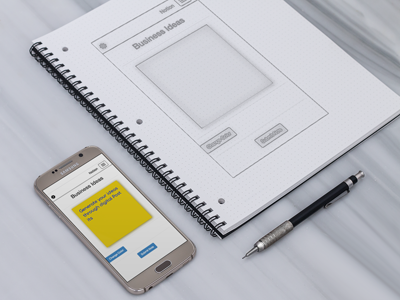
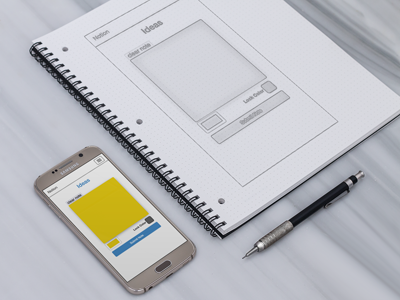
lock comment view modal

diff --git a/client/styles/components/_noteDetails.scss b/client/styles/components/_noteDetails.scss
@@ -2,8 +2,12 @@ $green: #86BB71;
 $blue: #94C2ED;
 $bright-green: #0AD5C1;
 $bgd-color: linear-gradient(-45deg, #183850 0, #183850 25%, #183850  50%, #192C46  75%, #192C46  100%);
-//  #183850 0, #183850 25%, #192C46 50%, #22254C 75%, #22254C 100%
 .board-page-container {
+  position: relative;
+}
+
+.lock-overflow {
+  overflow: hidden;
   position: relative;
 }
 
@@ -12,7 +16,7 @@ $bgd-color: linear-gradient(-45deg, #183850 0, #183850 25%, #183850  50%, #192C4
   top: 0.1%;
   right: 2%;
   padding: 0;
-  background-color: #183850;
+  background-color: #363636;
   border-radius: 50%;
   color: white;
   border: 0;
@@ -30,7 +34,7 @@ $bgd-color: linear-gradient(-45deg, #183850 0, #183850 25%, #183850  50%, #192C4
   padding: 2em;
   margin: 0.5em auto;
   border-radius: 10px;
-  background:$bgd-color;
+  background:$black;
   border: 0;
   z-index: 9999;
   box-shadow: 0 0 1px rgba(76,86,103,.25), 0 2px 18px rgba(31,37,50,.32);
@@ -116,6 +120,7 @@ $bgd-color: linear-gradient(-45deg, #183850 0, #183850 25%, #183850  50%, #192C4
   margin-bottom: 0;
   width: 100%;
   position: relative;
+  color: black;
 
       &:after {
         bottom: 100%;
@@ -131,24 +136,77 @@ $bgd-color: linear-gradient(-45deg, #183850 0, #183850 25%, #183850  50%, #192C4
 }
 
 .note-details-comment:nth-child(odd){
-      background-color: rgba(25, 147, 147, 0.1);
       text-align: right;
       &:after {
-        border-bottom-color: rgba(25, 147, 147, 0.1);
         left: 93%;
       }
-      color: #0AD5C1;
 }
 
 .note-details-comment:nth-child(even) {
-    background-color: rgba(25, 147, 147, 0.1);
     text-align: left;
     &:after {
-      border-bottom-color: rgba(25, 147, 147, 0.1);
       left: 7%;
     }
-    color: #0EC879;
 }
+
+.note-details-comment:nth-child(1n){
+  background-color: #ffeb3b;
+  &:after {
+    border-bottom-color: #ffeb3b;
+  }
+}
+.note-details-comment:nth-child(2n){
+  background-color: #ffc107;
+  &:after {
+    border-bottom-color: #ffc107;
+  }
+}
+.note-details-comment:nth-child(3n){
+  background-color: #cddc39;
+  &:after {
+    border-bottom-color: #cddc39;
+  }
+}
+.note-details-comment:nth-child(4n){
+  background-color: #009688;
+  &:after {
+    border-bottom-color: #009688;
+  }
+}
+.note-details-comment:nth-child(5n){
+  background-color: #03a9f4;
+  &:after {
+    border-bottom-color: #03a9f4;
+  }
+}
+.note-details-comment:nth-child(7n){
+  background-color: #FF646E;
+  &:after {
+    border-bottom-color: #FF646E;
+  }
+}
+
+
+
+
+// [
+//   "#ffeb3b",
+//   "#ffc107",
+//   "#FFA83A",
+//   "#ff9800",
+//   "#FF646E",
+//   "#cddc39",
+//   "#8bc34a",
+//   "#4caf50",
+//   "#28B270",
+//   "#009688",
+//   "#00bcd4",
+//   "#03a9f4",
+//   "#2196f3",
+//   "#5064D2",
+//   "#B150A0"
+// ]
+
 
 
 

diff --git a/client/containers/BoardContainer.js b/client/containers/BoardContainer.js
@@ -102,14 +102,19 @@ class BoardContainer extends Component {
 
   showNoteComments(color, content, noteId) {
     this.props.selectedNoteDetail({color, content, noteId});
+    document.body.classList.toggle('lock-overflow', true);
+    document.documentElement.classList.toggle('lock-overflow', true);
   }
 
   componentWillUnmount() {
     this.props.selectedNoteDetail();
+
   }
 
   hideNoteComments() {
     this.props.selectedNoteDetail();
+    document.body.classList.toggle('lock-overflow', false);
+    document.documentElement.classList.toggle('lock-overflow', false);
   }
 
 
@@ -121,9 +126,8 @@ class BoardContainer extends Component {
 
     const value = `${window.location.host}${window.location.host === 'localhost' ? window.location.port : ''}/note?board=${this.props.board.hash}`;
 
-
     return (
-      <div className="col-xs-12 board-page-container" key={ this.props.board.id }>
+      <div className="col-xs-12 board-page-container " key={ this.props.board.id }>
         {this.props.selectedNoteDetails ?
           <NoteDetailsContainer
             note={this.props.selectedNoteDetails}

diff --git a/client/containers/HomepageContainer.js b/client/containers/HomepageContainer.js
@@ -60,10 +60,10 @@ export default class HomePageContainer extends Component {
         <div className="desc-container">
             <div className="left-desc">
               <div className="left-desc-title">
-                  Seamless Design.
+                  Real-time collaboration.
               </div>
               <div className="left-desc-content">
-                 Unite with your team and brainstorm ideas on your own dynamic board. Some more description we need to think about. Lets get back to this
+                 Unite with your team and brainstorm ideas in your own dynamic board. Create context around your projects with Boards—flexible spaces to store, share, and talk about your own ideas.
               </div>
 
             </div>

diff --git a/client/index.html b/client/index.html
@@ -7,7 +7,9 @@
     <link href="https://fonts.googleapis.com/css?family=Caveat+Brush" rel="stylesheet">
     <link href="https://fonts.googleapis.com/css?family=Open+Sans:300i,400,400i,700,700i" rel="stylesheet">
     <meta charset="utf-8">
-    <meta name="viewport" content="width=device-width, initial-scale=1">
+    <!--<meta name="viewport" content="width=device-width, initial-scale=1">-->
+    <meta name="viewport" content="user-scalable=no, width=device-width, initial-scale=1.0" />
+<meta name="apple-mobile-web-app-capable" content="yes" />
   </head>
   <body>
     <div id="root">

diff --git a/client/styles/components/_homepage.scss b/client/styles/components/_homepage.scss
@@ -70,8 +70,8 @@ button:focus {
 }
 
 .main-signup-button:hover {
-  background-color: #333333;
-  color: #FFFFA5;
+  background-color: #ffff59;
+  color: #333333;
 }
 
 .postit-view {
